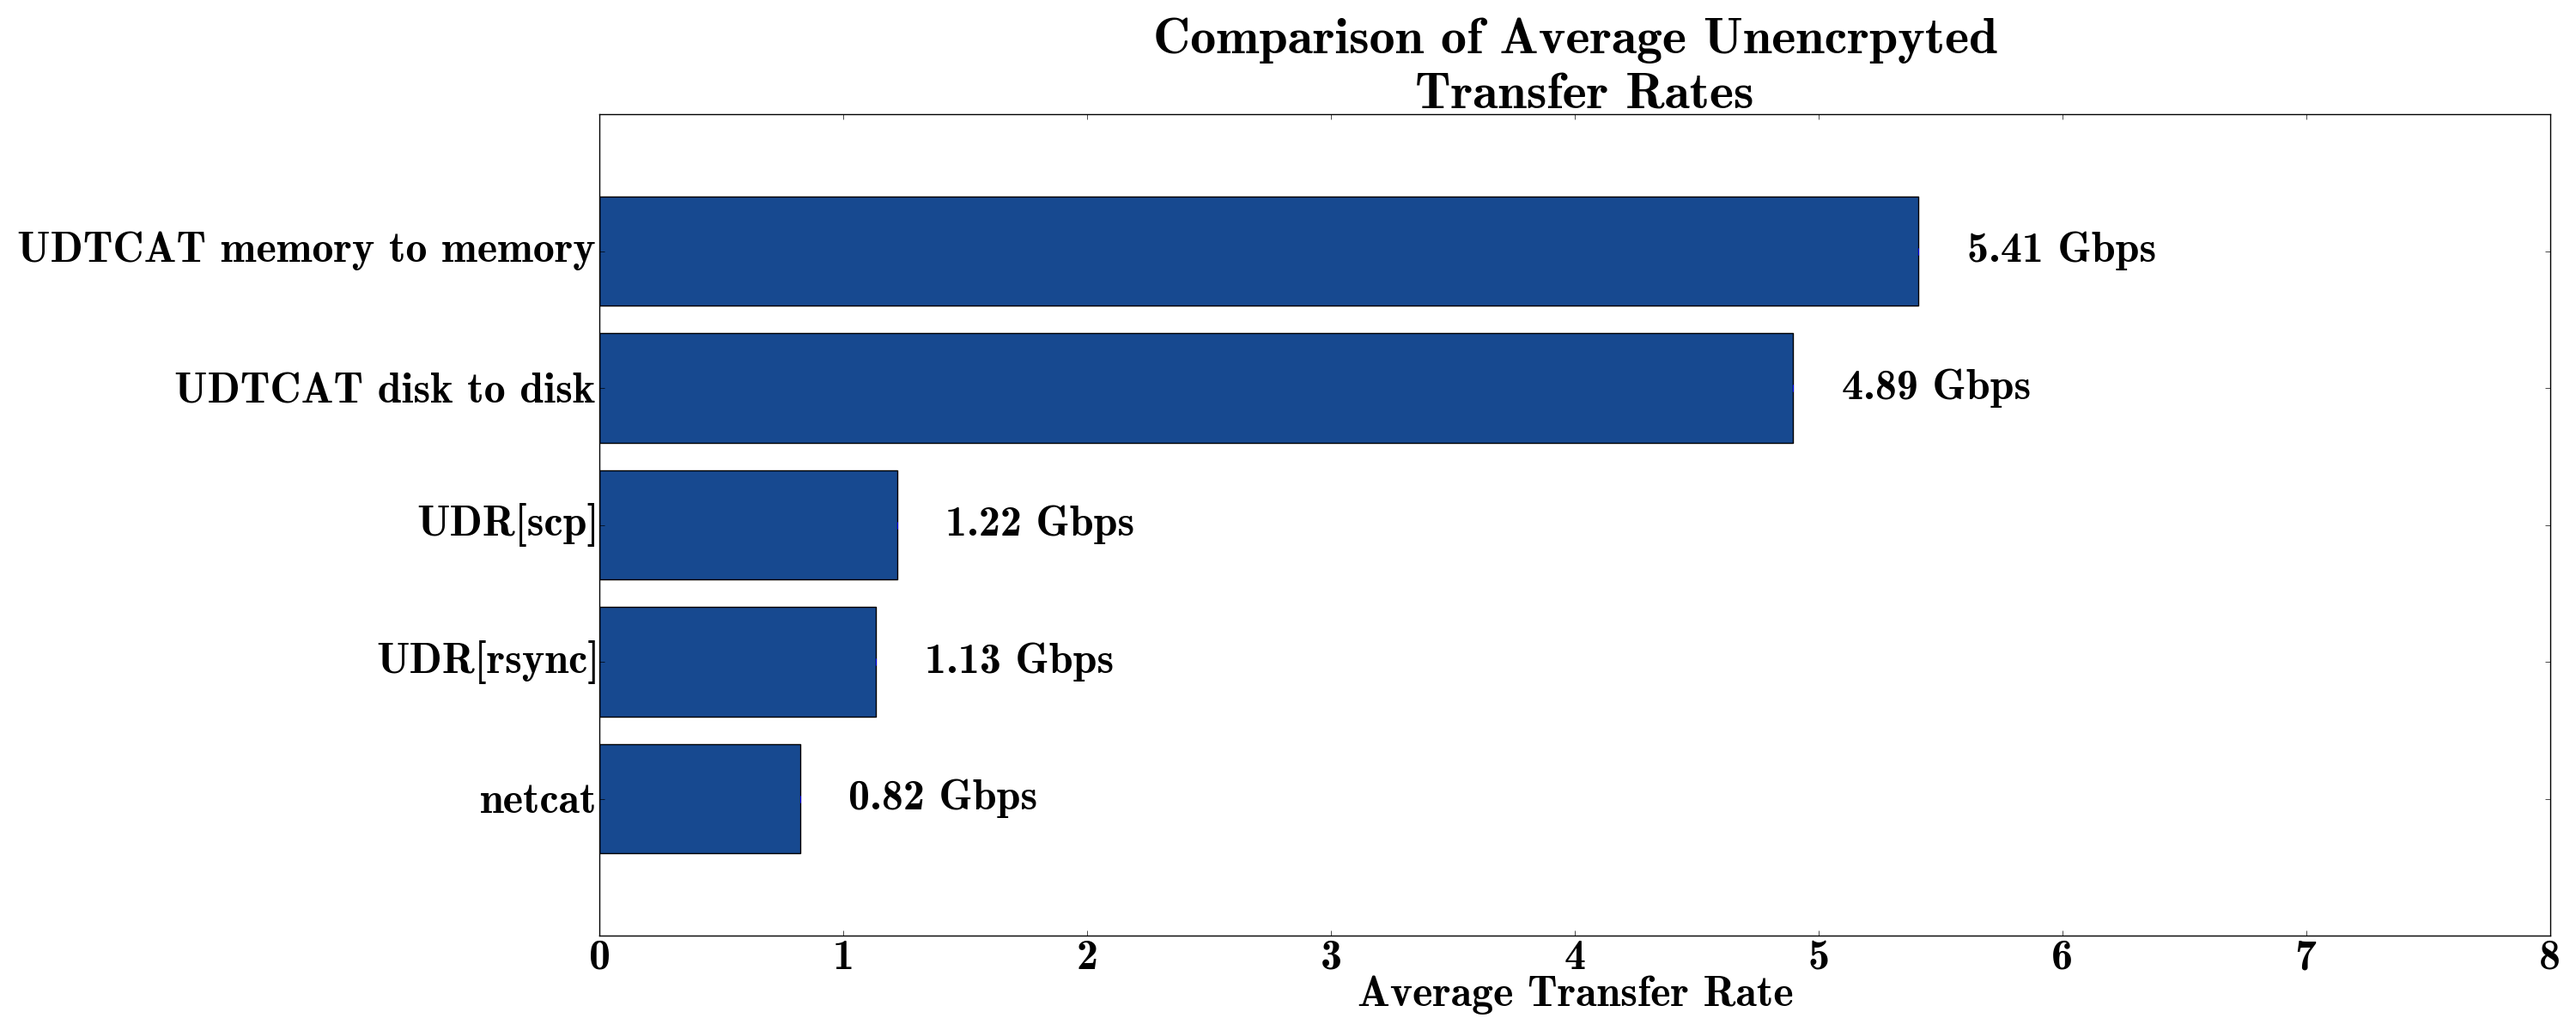
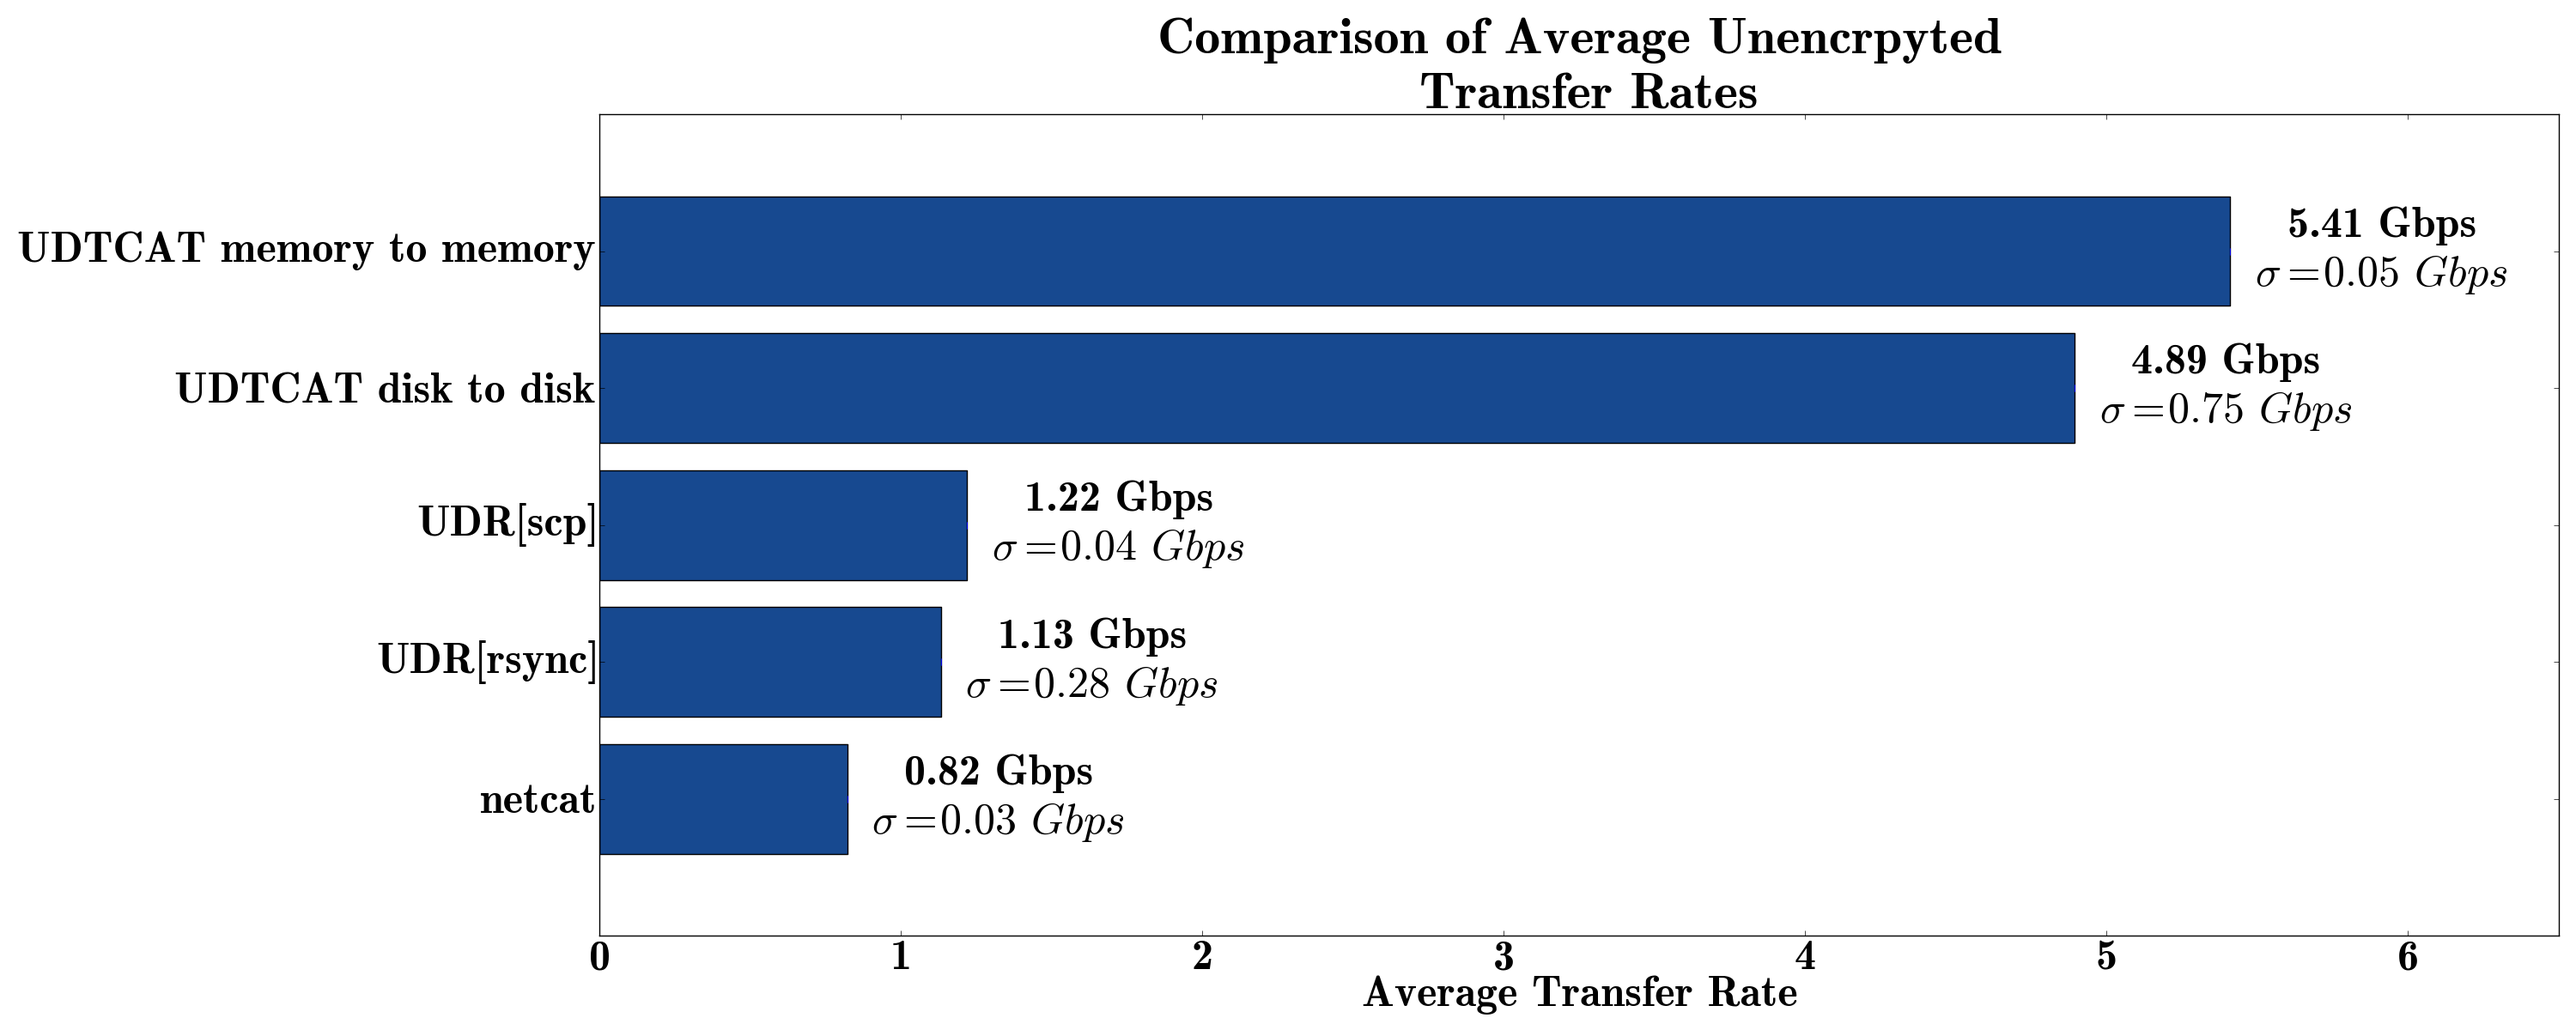
quick commit, too lazy to comment

diff --git a/encrypted/compare_encrypted.py b/encrypted/compare_encrypted.py
@@ -4,7 +4,7 @@ import matplotlib.pyplot as plt
 
 
 from pylab import *
-rcParams['figure.figsize'] = 30, 12
+rcParams['figure.figsize'] = 30, 16
 
 font = {'family' : 'normal',
         'weight' : 'bold',
@@ -29,9 +29,20 @@ performance = (
 1.26881889764,
 1.24770186335,
 0.954241380952,
-3.29617647059,
+3.41,
 0.809574539474,
 4.58362318841,
+)
+
+stddev = (
+.01,
+.01,
+.27,
+.18,
+.36,
+.33,
+.07,
+.18
 )
 
 y_pos = np.arange(len(tests))
@@ -39,14 +50,14 @@ error = np.random.rand(len(tests))
 
 plt.barh(y_pos, performance, color='#174990', xerr=0, align='center', alpha=1.)
 plt.yticks(y_pos, tests, weight='bold')
-plt.xlim(0, 8)
+plt.xlim(0, 6.5)
 plt.xlabel('Average Transfer Rate', weight='bold')
 
 
 for i in range(len(tests)):
-    
-    plt.text(performance[i]+.2, i, "%.2f Gbps" % performance[i], horizontalalignment="left",
+    plt.text(performance[i]+.6, i, "%.2f Gbps\n$\sigma=%.2f$ $Gbps$" % (performance[i], stddev[i]), horizontalalignment="center",
              verticalalignment='center', color="black", weight='bold')
+
 
 
 plt.title('Comparison of Average Encrypted \nTransfer Rates ', weight='bold')

diff --git a/unencrypted/compare_unencrypted.py b/unencrypted/compare_unencrypted.py
@@ -26,17 +26,26 @@ performance = (
     5.41,
 )
 
+stddev = (
+.03,
+.28,
+.04,
+.75,
+.05,
+)
+
+
 y_pos = np.arange(len(tests))
 error = np.random.rand(len(tests))
 
 plt.barh(y_pos, performance, color='#174990', xerr=0, align='center', alpha=1.)
 plt.yticks(y_pos, tests, weight='bold')
-plt.xlim(0, 8)
+plt.xlim(0, 6.5)
 plt.xlabel('Average Transfer Rate', weight='bold')
 
 for i in range(len(tests)):
     
-    plt.text(performance[i]+.2, i, "%.2f Gbps" % performance[i], horizontalalignment="left",
+    plt.text(performance[i]+.5, i, "%.2f Gbps\n$\sigma=%.2f$ $Gbps$" % (performance[i], stddev[i]), horizontalalignment="center",
              verticalalignment='center', color="black", weight='bold')
 
 plt.title('Comparison of Average Unencrpyted \n Transfer Rates', weight='bold')

diff --git a/extract_vn.py b/extract_vn.py
@@ -44,5 +44,4 @@ with open(path, 'rb') as csvfile:
         rxs.append(rx)
         txs.append(tx)
 
-print path
-print mean(rxs)
+print  "%.2f\t%.2f" % (mean(rxs),std(rxs))
